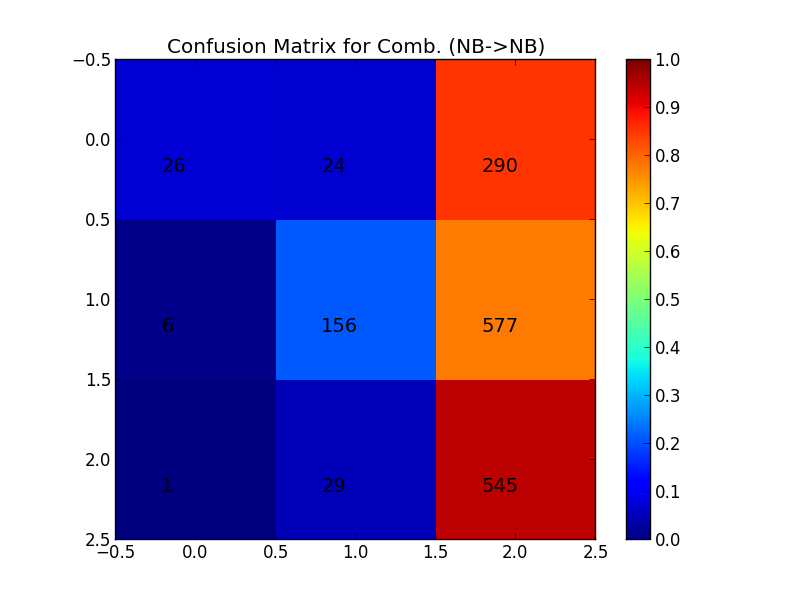
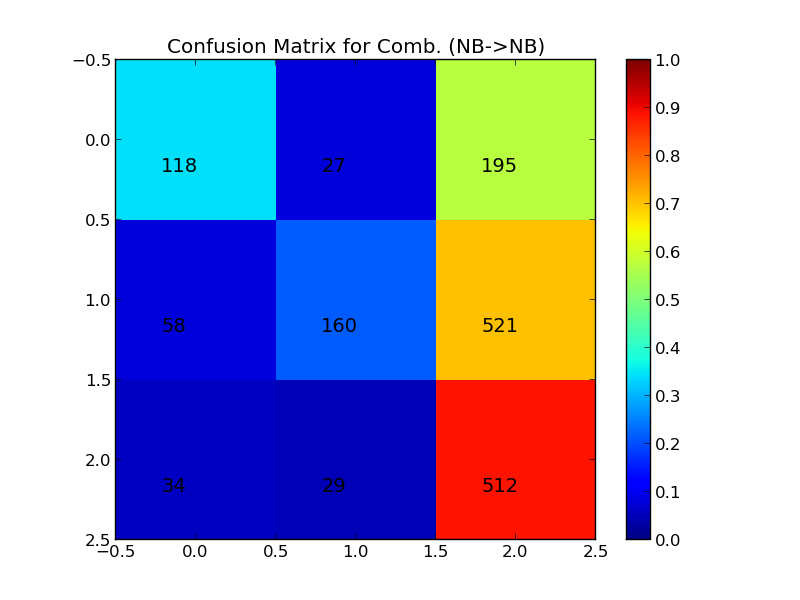
Changes up in hea

diff --git a/master/code/sentiment_server/plots/best_stats.py b/master/code/sentiment_server/plots/best_stats.py
@@ -14,6 +14,7 @@ from models import *
 
 import utils.utils as u
 import utils.stats as stat
+import utils.preprocessor_methods as pr
 
 import storage.data as d
 
@@ -28,8 +29,70 @@ logging.basicConfig(level=logging.DEBUG, format='%(asctime)s %(message)s')
 d.set_file_names()
 docs_test, y_test, docs_train, y_train, docs_train_subjectivity, y_train_subjectivity, docs_train_polarity, y_train_polarity = d.get_data()
 
+"""
+MaxEnt:
+{
+    'vect__ngram_range': (1, 1), 
+    'vect__smooth_idf': True, 
+    'vect__max_df': 0.5, 
+    'vect__sublinear_tf': True, 
+    'vect__preprocessor': <function placeholders at 0x9be31b4>, 
+    'clf__penalty': 'l1', 
+    'clf__C': 1.0, 
+    'vect__use_idf': True
+}
+"""
+c1_vect_options = {
+  'ngram_range': (1,1),
+  'sublinear_tf': True,
+  'preprocessor': pr.placeholders,
+  'use_idf': True,
+  'smooth_idf': True,
+  'max_df': 0.5,
+  'stop_words': None
+}
+
+c1_default_options = {
+  'C': 1.0,
+  'penalty': 'l1'
+}
+clf = MaxEnt(docs_train, y_train, default_options=c1_default_options, vect_options=c1_vect_options)
+
+
+"""
+SVM:
+{
+    'vect__ngram_range': (1, 1), 
+    'vect__smooth_idf': True, 
+    'vect__max_df': 0.5, 
+    'vect__sublinear_tf': True, 
+    'vect__preprocessor': <function remove_noise at 0x9be3144>, 
+    'vect__use_idf': True, 
+    'clf__C': 0.3
+}
+"""
+# c1_vect_options = {
+#   'ngram_range': (1,1),
+#   'sublinear_tf': True,
+#   'preprocessor': pr.remove_noise,
+#   'use_idf': True,
+#   'smooth_idf': True,
+#   'max_df': 0.5
+# }
+
+# c1_default_options = {
+#   'C': 0.3
+# }
+# clf = SVM(docs_train, y_train, default_options=c1_default_options, vect_options=c1_vect_options)
+
+
+
+# c2 = SVM(docs_train_polarity, y_train_polarity, default_options=c2_default_options, vect_options=c2_vect_options)
+# clf = Combined(c1, c2)
+
 labels = []
 res = [
+    [],
     [],
     [],
     []
@@ -46,6 +109,7 @@ def test(clf):
     res[0].append(np.mean(p))
     res[1].append(np.mean(r))
     res[2].append(np.mean(f1))
+    res[3].append(np.mean(y_pred == y_test))
 
     conf_arr = stat.confusion_matrix(y_test, y_pred)
 
@@ -68,12 +132,6 @@ def autolabel(rects):
         plt.text(rect.get_x()+rect.get_width()/2., height, '%5.3f' % height,
                 ha='center', va='top', rotation=90)
 
-
-c1 = MaxEnt(docs_train_subjectivity, y_train_subjectivity)
-c2 = SVM(docs_train_polarity, y_train_polarity)
-
-clf = Combined(c1, c2)
-
 conf_arr, norm_conf = test(clf)
 
 N = len(labels)
@@ -84,7 +142,7 @@ width = 1       # the width of the bars
 fig = plt.figure(1)
 ax = plt.subplot(111)
 
-colors = ['#FA6E6E', '#6E9FFA', '#A4FA6E']
+colors = ['#FA6E6E', '#6E9FFA', '#A4FA6E', 'b']
 plt.xticks(ind + width * 2, labels)
 plt.title('Different scores by algorithms')
 plt.grid(True)
@@ -100,9 +158,9 @@ for i, l in enumerate(labels):
 box = ax.get_position()
 ax.set_position([box.x0, box.y0, box.width * 0.8, box.height])
 
-ax.legend( ['Precision', 'Recall', 'F1 Score'], loc='center left', bbox_to_anchor=(1, 0.5) )
+ax.legend( ['Precision', 'Recall', 'F1 Score', 'Accuracy'], loc='center left', bbox_to_anchor=(1, 0.5) )
 
-savefig("plots/stats_best.png", format="png")
+savefig("plots/maxent_stats_best.png", format="png")
 
 
 
@@ -115,6 +173,6 @@ for i, cas in enumerate(conf_arr):
         if c>0:
             plt.text(j-.2, i+.2, c, fontsize=14)
 cb = fig.colorbar(res)
-savefig("plots/confusion_matrix_best.png", format="png")
+savefig("plots/maxent_confusion_matrix_best.png", format="png")
 
 

diff --git a/master/docs/src/4-results.tex b/master/docs/src/4-results.tex
@@ -85,32 +85,45 @@ Attach negation to surrounding words & &   &   &   & x &   & x & x \\ \hline
 \section{Experiment Results}
 \textcolor{blue}{Show plots, significant features and so on and describe the results from the experiment}
 
+Notes:
+\begin{enumerate}
+\item Grid search across params result in MaxEnt being the best. With following params:
+	\begin{itemize}
+		\item 'ngram\_range': (1,1),
+		\item  'sublinear\_tf': True,
+		\item  'preprocessor': pr.placeholders,
+		\item  'use\_idf': True,
+		\item  'smooth\_idf': True,
+		\item  'max\_df': 0.5,
+		\item  'stop\_words': None
+	\end{itemize}
+	\begin{itemize}
+		\item 'C': 1.0,
+		\item 'penalty': 'l1'
+	\end{itemize}
 
-\begin{figure}
-\centering
-\begin{minipage}{.5\textwidth}
-  \centering
-  \includegraphics[width=\linewidth]{../img/plots/grid/confusion_matrix_NB.png}
-  \caption{A subfigure}
-  \label{fig:sub1}
-\end{minipage}%
-\begin{minipage}{.5\textwidth}
-  \centering
-  \includegraphics[width=\linewidth]{../img/plots/grid/confusion_matrix_SVM.png}
-  \caption{A subfigure}
-  \label{fig:sub2}
-\end{minipage}
-\begin{minipage}{.5\textwidth}
-  \centering
-  \includegraphics[width=\linewidth]{../img/plots/grid/confusion_matrix_SVM.png}
-  \caption{A subfigure}
-  \label{fig:sub2}
-\end{minipage}
-\begin{minipage}{.5\textwidth}
-  \centering
-  \includegraphics[width=\linewidth]{../img/plots/grid/confusion_matrix_SVM.png}
-  \caption{A subfigure}
-  \label{fig:sub2}
-\end{minipage}
-\end{figure}
+\item Best impl has a accuracy of 0.645, but a bad confusion matrix.
 
+\item Overall stats for feature filters:
+	\begin{description}
+		\item[remove\_noise] 10
+		\item[no\_url\_usernames\_reduced\_attached] 4
+		\item[placeholders] 1
+		\item[reduced\_attached] 3
+		\item[no\_usernames] 3
+	\end{description}
+
+\item SVM uses remove\_noise and MaxEnt is the only one using placeholders. 
+
+\item Can see that even though maxent scored better, it has a worse confusion matrix, than SVM. Not much difference in accuracy really. 
+
+\item SVM and MaxEnt is performs much better than the rest. 
+\end{enumerate}
+
+
+TODO:
+\begin{enumerate}
+\item Check reduced dataset against both MaxEnt and SVM. (1000, 2000, 3000)
+\item Check most informative features on MaxEnt and SVM
+\item Check both up against a different test set. 
+\end{enumerate}

diff --git a/master/docs/src/docsetup.tex b/master/docs/src/docsetup.tex
@@ -12,6 +12,7 @@
 \usepackage{caption}
 
 
+
 \usepackage{url}
 % breakes long urls prettier over more than one line
 
